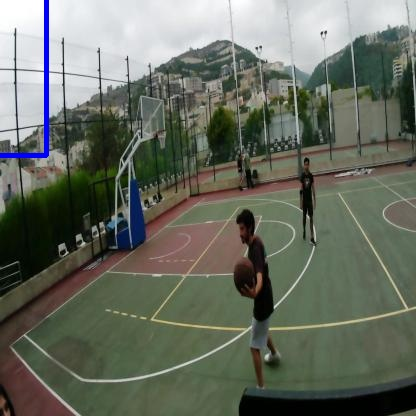
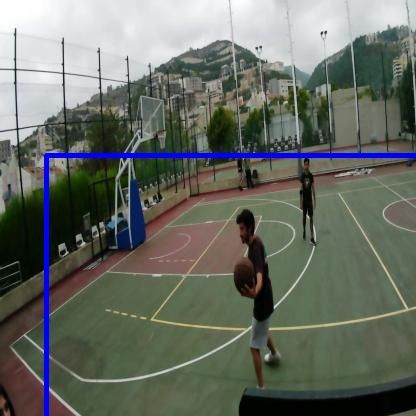
abs

Changed region(s): [[0.0, 0.0, 1.0, 1.0]]

diff --git a/yolov8_detection.py b/yolov8_detection.py
@@ -140,10 +140,10 @@ color =  (255, 0, 0)
 thickness = 3
 
 for filtered_detection in filtered_detections:
-    x1 = int(filtered_detection['x']*416)
-    y1 = int(filtered_detection['y']*416)
-    x2 = int((filtered_detection['x'] + filtered_detection['width'])*416)
-    y2 = int((filtered_detection['y'] + filtered_detection['height'])*416)
+    x1 = int(filtered_detection['x']*img_w)
+    y1 = int(filtered_detection['y']*img_h)
+    x2 = int((filtered_detection['x'] + abs(filtered_detection['width']))*img_w)
+    y2 = int((filtered_detection['y'] + abs(filtered_detection['height']))*img_h)
 
     cv2.rectangle(img, (x1, y1), (x2, y2), color, thickness)
 
